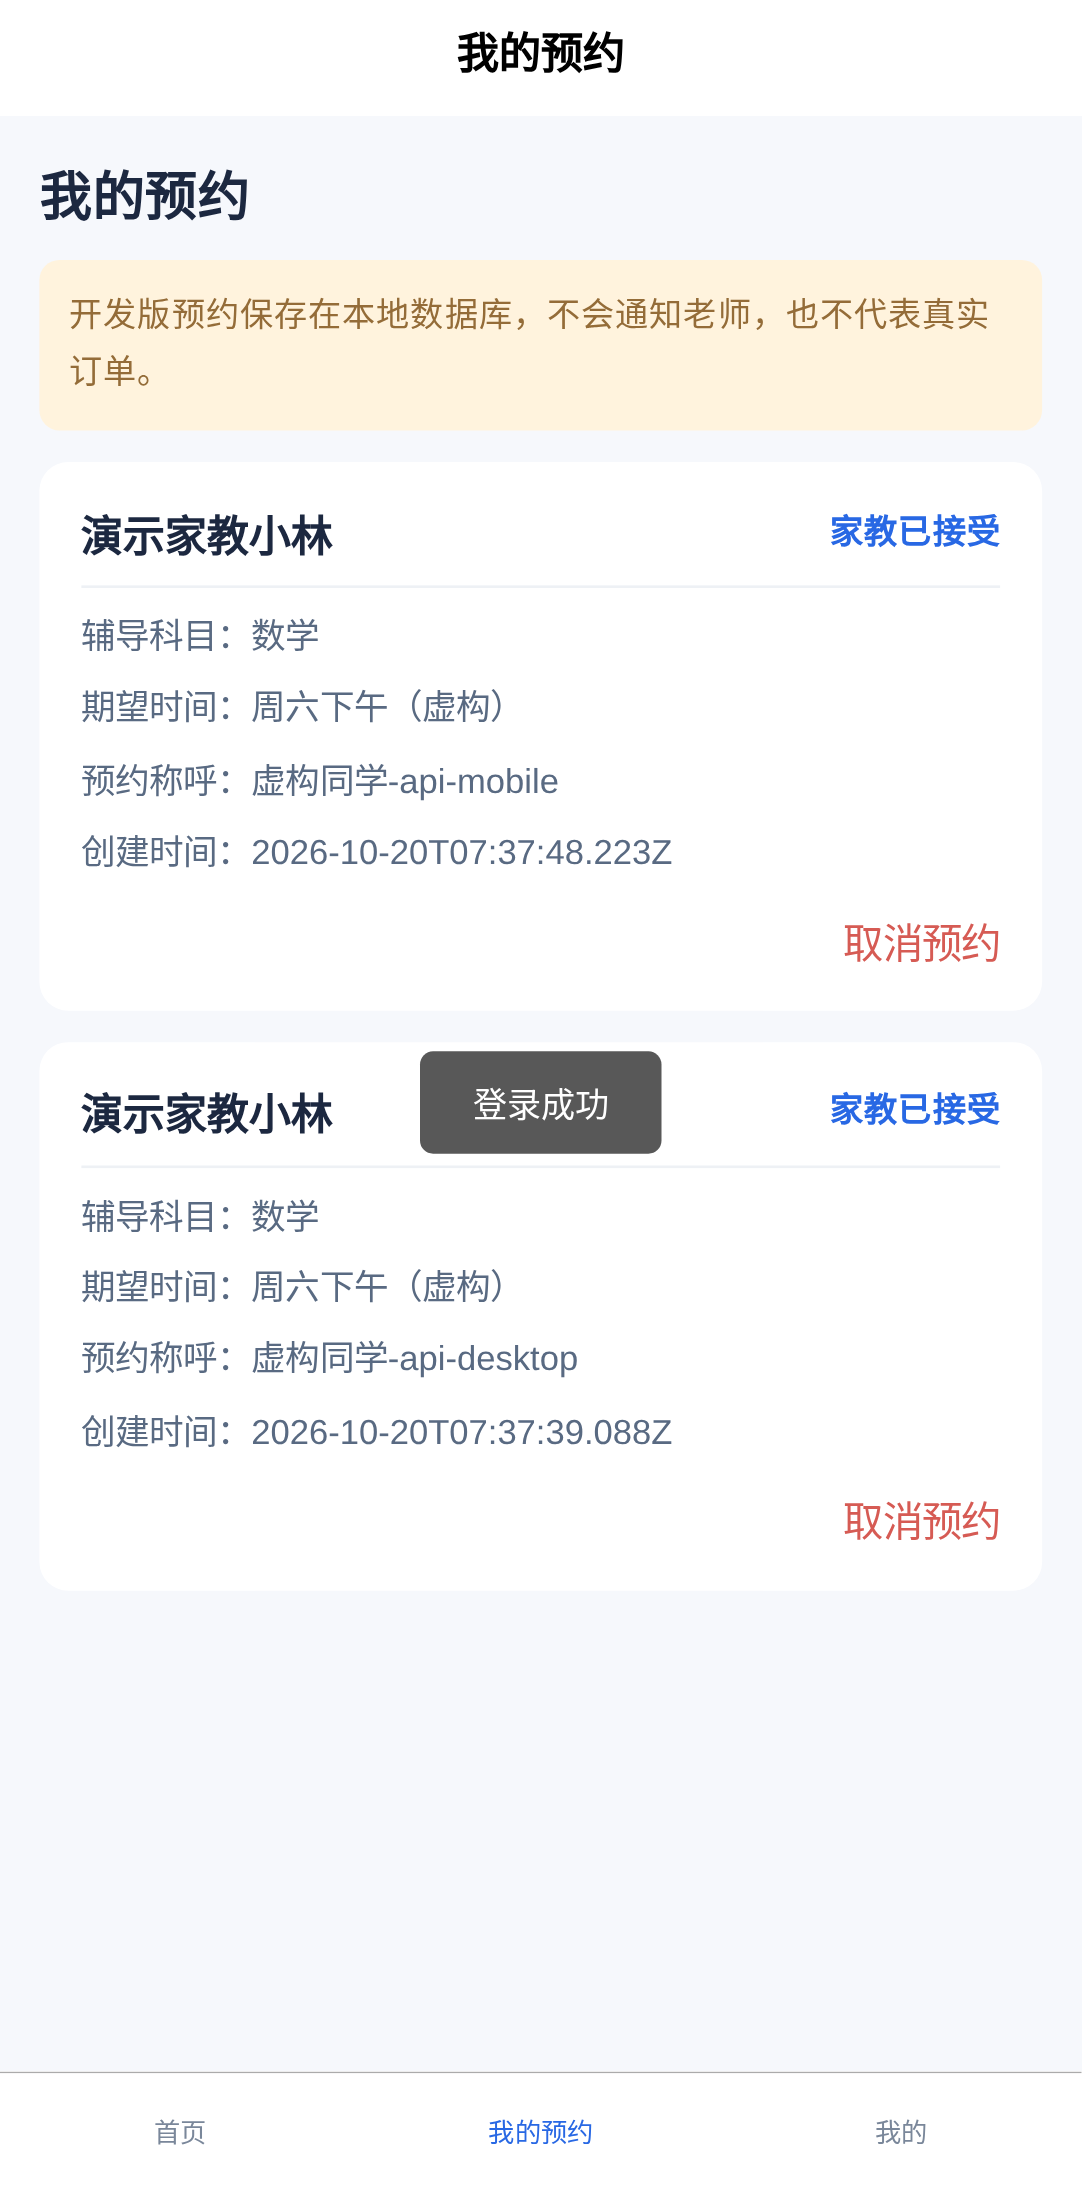
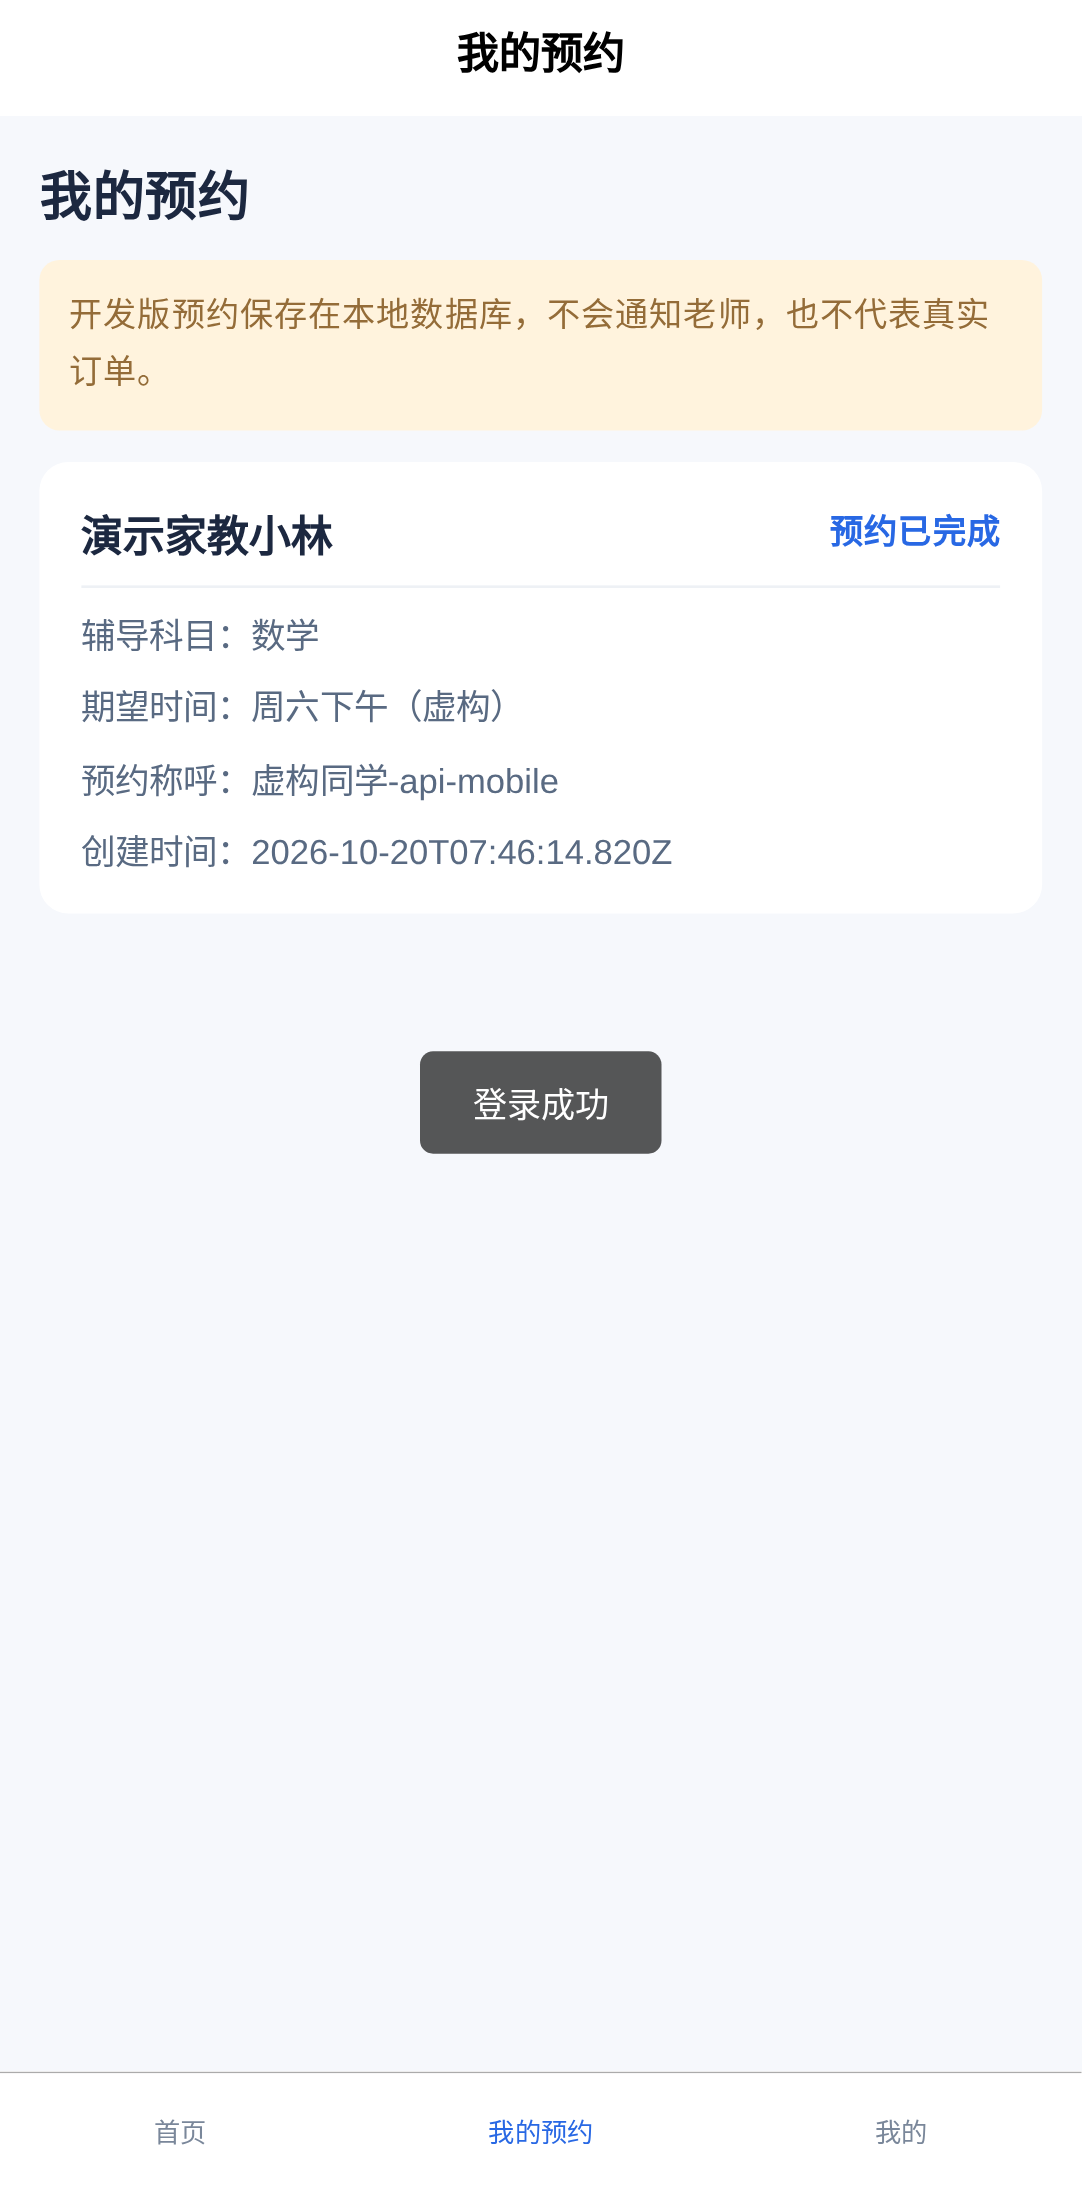
fix: 统一家教资料撤回并验证预约完成与重新审核闭环

diff --git a/playwright.config.ts b/playwright.config.ts
@@ -4,14 +4,16 @@ export default defineConfig({
   reporter:[['list'],['html',{open:'never'}]],
   use:{actionTimeout:10000,trace:'retain-on-failure',screenshot:'only-on-failure'},
   webServer:[
-    {command:'node scripts/e2e-api.mjs',url:'http://127.0.0.1:3001/health',timeout:120000,reuseExistingServer:false},
+    {command:'node scripts/e2e-api.mjs',url:'http://127.0.0.1:3001/health',timeout:120000,reuseExistingServer:false,env:{PORT:'3001',CORS_ORIGINS:'http://127.0.0.1:5174'}},
+    {command:'node scripts/e2e-api.mjs',url:'http://127.0.0.1:3002/health',timeout:120000,reuseExistingServer:false,env:{PORT:'3002',CORS_ORIGINS:'http://127.0.0.1:5175'}},
     {command:'npm run dev:h5 -- --host 127.0.0.1 --port 5173',url:'http://127.0.0.1:5173',reuseExistingServer:false,env:{VITE_DATA_MODE:'mock'}},
-    {command:'npm run dev:h5 -- --host 127.0.0.1 --port 5174',url:'http://127.0.0.1:5174',reuseExistingServer:false,env:{VITE_DATA_MODE:'api',VITE_API_BASE_URL:'http://127.0.0.1:3001'}}
+    {command:'npm run dev:h5 -- --host 127.0.0.1 --port 5174',url:'http://127.0.0.1:5174',reuseExistingServer:false,env:{VITE_DATA_MODE:'api',VITE_API_BASE_URL:'http://127.0.0.1:3001'}},
+    {command:'npm run dev:h5 -- --host 127.0.0.1 --port 5175',url:'http://127.0.0.1:5175',reuseExistingServer:false,env:{VITE_DATA_MODE:'api',VITE_API_BASE_URL:'http://127.0.0.1:3002'}}
   ],
   projects:[
     {name:'mock-desktop',use:{...devices['Desktop Chrome'],baseURL:'http://127.0.0.1:5173'}},
     {name:'mock-mobile',use:{...devices['Pixel 7'],baseURL:'http://127.0.0.1:5173'}},
     {name:'api-desktop',use:{...devices['Desktop Chrome'],baseURL:'http://127.0.0.1:5174'}},
-    {name:'api-mobile',use:{...devices['Pixel 7'],baseURL:'http://127.0.0.1:5174'}}
+    {name:'api-mobile',use:{...devices['Pixel 7'],baseURL:'http://127.0.0.1:5175'}}
   ]
 })

diff --git a/tests/business.test.ts b/tests/business.test.ts
@@ -51,6 +51,23 @@ describe('申请与审核', () => {
     await api.reviewApplication(admin, submitted.id, 'approved')
     expect((await api.getTutor('t001'))?.name).toBe('演示老师')
   })
+  it('资料撤回、待审和驳回时不再公开旧资料，重新通过审核后恢复', async () => {
+    const api = service()
+    expect(await api.getTutor('t001')).not.toBeNull()
+    const submitted = await api.submitApplication(tutor, input)
+    expect(await api.getTutor('t001')).toBeNull()
+    await api.reviewApplication(admin, submitted.id, 'approved')
+    expect((await api.getTutor('t001'))?.name).toBe(input.displayName)
+    await api.saveApplicationDraft(tutor, { ...input, displayName: '修改后的老师' })
+    expect(await api.getTutor('t001')).toBeNull()
+    await expect(api.createBooking(parent, bookingInput)).rejects.toMatchObject({ code: 'NOT_FOUND' })
+    await api.submitApplication(tutor, { ...input, displayName: '修改后的老师' })
+    await api.reviewApplication(admin, submitted.id, 'rejected', '请补充资料')
+    expect(await api.getTutor('t001')).toBeNull()
+    await api.submitApplication(tutor, { ...input, displayName: '修改后的老师' })
+    await api.reviewApplication(admin, submitted.id, 'approved')
+    expect((await api.getTutor('t001'))?.name).toBe('修改后的老师')
+  })
   it('被拒后可修改并重新提交，其他家教不能读取申请', async () => {
     const api = service()
     const submitted = await api.submitApplication(tutor, input)

diff --git a/src/services/mock/business.ts b/src/services/mock/business.ts
@@ -88,8 +88,10 @@ export class MockBusinessService implements BusinessService {
   }
 
   async listTutors(query: TutorQuery = {}): Promise<Tutor[]> {
-    const approved = this.applications().find(a => a.userId === 'demo-tutor' && a.status === 'approved')
-    const list = seedTutors.map(t => t.id === 't001' && approved ? {
+    const application = this.applications().find(a => a.userId === 'demo-tutor')
+    const approved = application?.status === 'approved' ? application : undefined
+    // 尚无申请时保留种子演示；一旦进入审核流程，仅公开审核通过的资料。
+    const list = seedTutors.filter(t => t.id !== 't001' || !application || !!approved).map(t => t.id === 't001' && approved ? {
       ...t, name: approved.displayName, university: approved.university, major: approved.major,
       subjects: [...approved.subjects], teachingMode: approved.teachingMode, area: approved.area,
       pricePerHour: approved.pricePerHour, introduction: approved.introduction, availability: approved.availability

diff --git a/docs/ROADMAP.md b/docs/ROADMAP.md
@@ -1,51 +1,51 @@
-# 产品路线图与分工建议
+# 产品路线图与实际状态
 
-## V0.1 基础演示
+更新：2026-10-20。按“已有实现、已验证、已合并、已部署”分别记录，历史初始草案不再代表当前进度。主分支 `be6c1a2` 已通过 #11 纳入 A/C/D、B 新版工作台及授课方式筛选；本次资料撤回一致性修复仍以对应 PR 状态为准。
 
-- [x] 双端工程骨架与中文项目文档
-- [x] 虚构家教数据、科目筛选、家教详情
-- [x] 本地预约创建/查询/取消
-- [x] 协作规范、Issue/PR 模板
-- [x] 安装依赖并验证 H5 / 微信小程序构建
-- [x] H5 浏览器交互检查；微信开发者工具与真机仍未验证
+## 工程与三角色核心流程
 
-## V0.2 交互原型
+- [x] uni-app / Vue 3 / TypeScript 工程、锁文件及 H5/微信小程序构建。
+- [x] 家长、家教、管理员入口及 Mock/API 会话适配。
+- [x] 搜索、科目与授课方式组合筛选、分页和家教详情。
+- [x] 家长预约/取消、家教接受/拒绝/完成及共享状态机。
+- [x] 中文家教与管理员工作台、申请草稿/提交/驳回重提/批准、举报处理。
+- [x] 二次确认、错误/加载/空状态、窄屏布局及请求结果不确定时的状态恢复。
 
-- [x] 家长、家教、管理员三角色 Mock 页面入口
-- [x] 家教资料提交与审核状态原型
-- [x] 本机预约状态流转和空状态
-- [ ] 微信开发者工具与真机交互验收、进一步 UI 适配
+## 开发后端与可解释推荐
 
-## V0.3 本机业务闭环（当前分支，待评审）
+- [x] Fastify + Prisma + SQLite 开发 API、迁移和虚构种子数据。
+- [x] 开发账户登录、可撤销会话、服务端角色/归属检查、登录限流及审计。
+- [x] 审核与预约状态条件更新、预约创建去重及关键业务事务。
+- [x] Mock/API 共用业务契约；API 失败不自动伪装为 Mock 成功。
+- [x] 科目/预算/方式硬过滤、偏好关键词评分、逐项理由及原预约入口。
+- [x] 无密钥规则演示；年级仅作需求摘要，不虚构大模型或适教能力。
 
-- [x] 统一异步业务服务契约与可替换 Mock 实现
-- [x] 家教申请、工作台、家教接单、管理员模拟审核、模拟举报
-- [x] 业务规则自动化测试与双端构建
-- [ ] 真实后端、数据库和服务端权限；不能用 Mock 验收代替
+## 测试与交付
 
-## V0.3 后端最小闭环
+- [x] 类型检查、前端业务与匹配测试、后端权限/迁移/并发测试。
+- [x] B 独立类型检查和 9 项行为测试已纳入公共 CI。
+- [x] Mock/API × 桌面/手机浏览器完整流程及网络失败重试验收。
+- [x] 演示脚本、数据重置、离线方案、架构与创新说明。
+- [x] Pages 工作流、Vercel 静态配置、HTTPS 代理模板和可下载 H5 构建产物。
+- [ ] 公网 HTTPS 实际发布和公网完整流程验收（Pages 启用权限等资源尚未具备）。
+- [ ] 公网开发演示 API 部署与持久化验证（缺服务器/域名配置）。
+- [ ] 微信开发者工具、AppID/合法域名与真机交互验收。
 
-- [ ] 确定数据库与部署方案
-- [ ] 登录、角色与权限控制
-- [ ] 家教资料、审核、预约 API
-- [ ] 日志、错误处理、基础测试
-- [ ] 数据保护、监护人同意及投诉流程
+## 参赛论证与材料
 
-## V0.4 创新创业参赛展示
+- [x] 内部需求清单、用户角色和 MVP 范围说明。
+- [x] 产品演示路径、五分钟脚本和技术创新说明。
+- [ ] 明确赛事官方评分标准、材料格式和截止日期。
+- [ ] 真实访谈结果、竞品证据及商业模式/收费假设验证。
+- [ ] 路演 PPT、演示视频与答辩 FAQ。
 
-- [ ] 需求调研、访谈、竞品分析
-- [ ] 商业模式与平台收费假设验证
-- [ ] 运营流程、风险与合规说明
-- [ ] 产品演示视频、路演 PPT、答辩 FAQ
+上述未勾选项表示仓库未记录完成证据，不推断仓库外材料不存在。
 
-## 建议任务分工
+## 正式运营建设（当前演示之外）
 
-| 方向 | 工作内容 |
-|---|---|
-| 产品 | 用户画像、需求、原型、验收 |
-| 前端 | 小程序/H5 页面、组件、联调 |
-| 后端 | API、数据库、鉴权、审核 |
-| 测试 | 测试用例、兼容性、缺陷跟踪 |
-| 商业 | 调研、竞品、财务假设、路演 |
+- [ ] 正式微信身份、家教资质核验、真实通知及支付。
+- [ ] PostgreSQL 等生产数据库评审、部署运维、备份和多实例限流。
+- [ ] 隐私政策、监护人同意、数据删除及相关实际业务机制。
+- [ ] 管理/预约/举报全量分页和全站统计。
 
-负责人和时间以 GitHub Issues 实际分配为准。
+SQLite 服务仍保留 production 拒绝启动保护。演示功能与自动化测试通过，不等于正式运营已就绪。

diff --git a/docs/DELIVERY_STATUS.md b/docs/DELIVERY_STATUS.md
@@ -1,0 +1,51 @@
+# 集成交付状态（2026-10-20）
+
+## 当前结果
+
+开发后端、规则推荐、B 中文工作台与授课方式筛选已随 #11 合入 main（基线 `be6c1a2`）。本次在该基线上补充公开资料一致性修复、预约完成和资料撤回/恢复的整体验收，并刷新 README、路线图与演示说明。本次变更以对应 PR 的合并状态为准。
+
+### 修复的用户可见问题
+
+Mock 以前只寻找“已批准的申请”，当家教修改已通过资料并保存为草稿时，会重新显示旧种子家教；首页、详情和推荐仍可看到这个已经撤回的家教，与开发 API 不一致。
+
+现在首次未操作时仍保留种子演示。进入申请流程后，草稿、待审和驳回状态都不再公开该演示家教；审核通过后展示审核后的资料。撤回后不能创建新预约，已有预约保留，家长仍可查看。
+
+### 自动验收补充
+
+- 预约创建 → 家教接受 → 家长查看 → 家教完成 → 家长查询和刷新。
+- 提交资料 → 管理员批准 → 家教退回草稿 → 首页与推荐撤下 → 重新提交/批准 → 首页恢复。
+- 资料撤回及恢复不删除已有已完成预约。
+- API 桌面与手机项目各使用独立 API 进程及临时 SQLite 数据库，避免测试之间共享数据和登录限流状态；没有调整应用的认证或限流规则。
+- Prisma 客户端在 E2E 启动前只生成一次，避免多个 API 实例同时生成同一客户端。
+
+## 本次实际验证
+
+运行环境：Node.js 24.19.0、npm 11.9.0、Chromium。使用虚构资料、临时数据库和随机测试密码。
+
+| 检查 | 实际结果 |
+| --- | --- |
+| 根目录及 server 的 `npm ci --no-audit --no-fund` | 成功 |
+| `npm run typecheck`、`npm run typecheck:workflows` | 通过 |
+| 前端 `npm test` | 36/36 通过 |
+| B `npm run test:workflows` | 9/9 通过，已接入公共 CI |
+| server Prisma 生成、构建、`npm test` | 通过；18/18，含迁移与权限/并发测试 |
+| Mock/API 的 H5 与微信小程序构建 | 四项均通过 |
+| `npm run test:e2e` | 6 项适用用例通过，2 项仅 API 用例在 Mock 下跳过；最终运行 52.7 秒 |
+| Mock 生产包经本机 HTTP + 手机视口浏览器检查 | 首页、推荐入口、深链接刷新通过，无脚本或 HTTP 资源错误 |
+
+开发验收中纠正了 API 样例仅支持线上时的筛选预期，并发现共用 API 进程会让扩展后的角色切换用例触发原有限流。调整测试隔离后重跑上述完整 E2E，通过后才记录成功。远程 CI 以本 PR 的实际检查结果为准。
+
+## 可直接交接的材料
+
+- `DEMO_GUIDE.md`：安装、Mock/API 启动、数据重置、五分钟脚本、离线备份和验收命令。
+- `docs/ROADMAP.md`：以实际实现和外部交付条件重新整理的进度清单。
+- `docs/screenshots/d-*.png`：桌面/手机浏览器实测截图，家长预约截图包含完成状态。
+- GitHub Actions 的 `mock-h5-dist`：可部署的 Mock 静态包；下载产物不代表网站已上线。
+
+## 仍未完成
+
+- **公开 HTTPS**：当前 Pages 未启用，现有集成凭据启用接口返回 403；Sites 所需发布助手在当前工作环境不可用。静态产物、Pages/Vercel 配置和部署步骤已有，尚无可交付公网 URL。
+- **公网 API**：缺演示服务器、域名与持久磁盘等配置；SQLite 开发服务的 production 拒绝启动保护仍保留。
+- **微信验证**：缺 AppID、合法请求域名及开发者工具/设备环境；编译通过不等于真机验收。
+- **参赛材料**：仓库仍需官方赛事要求、真实调研与商业验证证据、路演 PPT/视频/FAQ；不把演示脚本算作这些材料已完成。
+- **正式运营能力**：真实微信身份、家教资质核验、通知和支付尚未实现。当前提供开发与演示能力。

diff --git a/DEMO_GUIDE.md b/DEMO_GUIDE.md
@@ -65,7 +65,9 @@ npx playwright install --with-deps chromium
 npm run test:e2e
 ```
 
-E2E 自动启动 5173（Mock）、5174（API）和 3001（API）；端口必须空闲。创建临时 SQLite 数据库与随机测试密码，结束后删除，不修改个人 .env 或正式演示数据库。四个项目：Mock/API × 桌面 Chrome/Pixel 7 手机视口。覆盖搜索、空输入、无匹配、推荐理由、详情预约、家教接受、家长查询与刷新恢复、家教申请、管理员审核；API 另含断网错误与重试。HTML 报告 `playwright-report/index.html`；失败 trace 在 `test-results/`，CI 保存 artifact。截图位于 `docs/screenshots/d-*.png`。
+E2E 自动启动 5173（Mock）、5174（桌面 API 前端）、5175（手机 API 前端）和 3001/3002（两套独立 API）；这些端口必须空闲。各 API 实例使用独立临时 SQLite 数据库及独立限流状态，测试不会通过放宽登录限流来绕过反复切换角色的限制。测试使用随机密码，结束后删除临时库，不修改个人 .env 或正式演示数据库。
+
+四个项目：Mock/API × 桌面 Chrome/Pixel 7 手机视口。覆盖组合筛选、空输入、无匹配、推荐理由、详情预约、家教接受和完成、家长查询与刷新恢复、家教申请与审核；进一步验证资料退回草稿后从列表及推荐撤下、重新审核后恢复，已有预约仍可查。API 另含断网错误与重试。HTML 报告 `playwright-report/index.html`；失败 trace 在 `test-results/`，CI 保存 artifact。截图位于 `docs/screenshots/d-*.png`。
 
 这验证 Chromium 浏览器与手机视口，不代表微信开发者工具、iOS Safari 或真机验证。
 

diff --git a/docs/D_ACCEPTANCE.md b/docs/D_ACCEPTANCE.md
@@ -1,5 +1,7 @@
 # D 验收记录（2026-10-20）
 
+> 最新一致性修复及完整生命周期验收见 [DELIVERY_STATUS.md](DELIVERY_STATUS.md)。下文保留历史各批次结果；本次前端 36/36、B 9/9、后端 18/18，完整 E2E 6 项适用测试通过。
+
 > 后续集成状态：用户已明确免除人工评审，#2/#4/#6/#10 依序合入 main，旧的“待评审/待合并”说明已解决。#7/#8 的兼容集成与新增验证见下方续报。
 
 ## 当前交付
